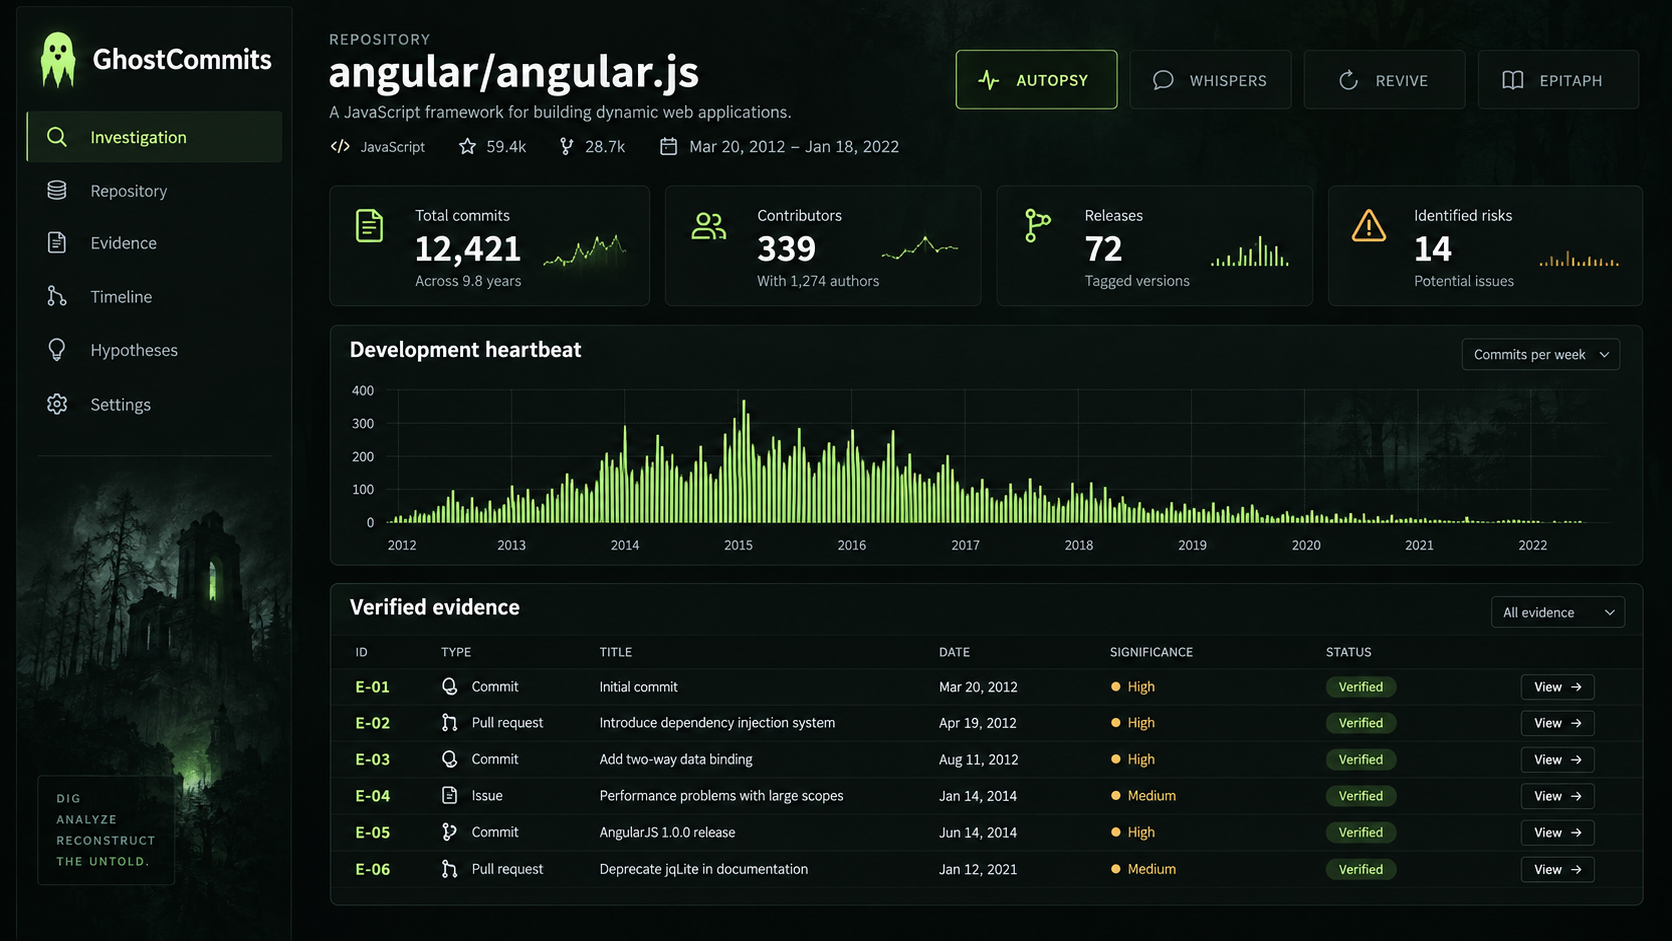
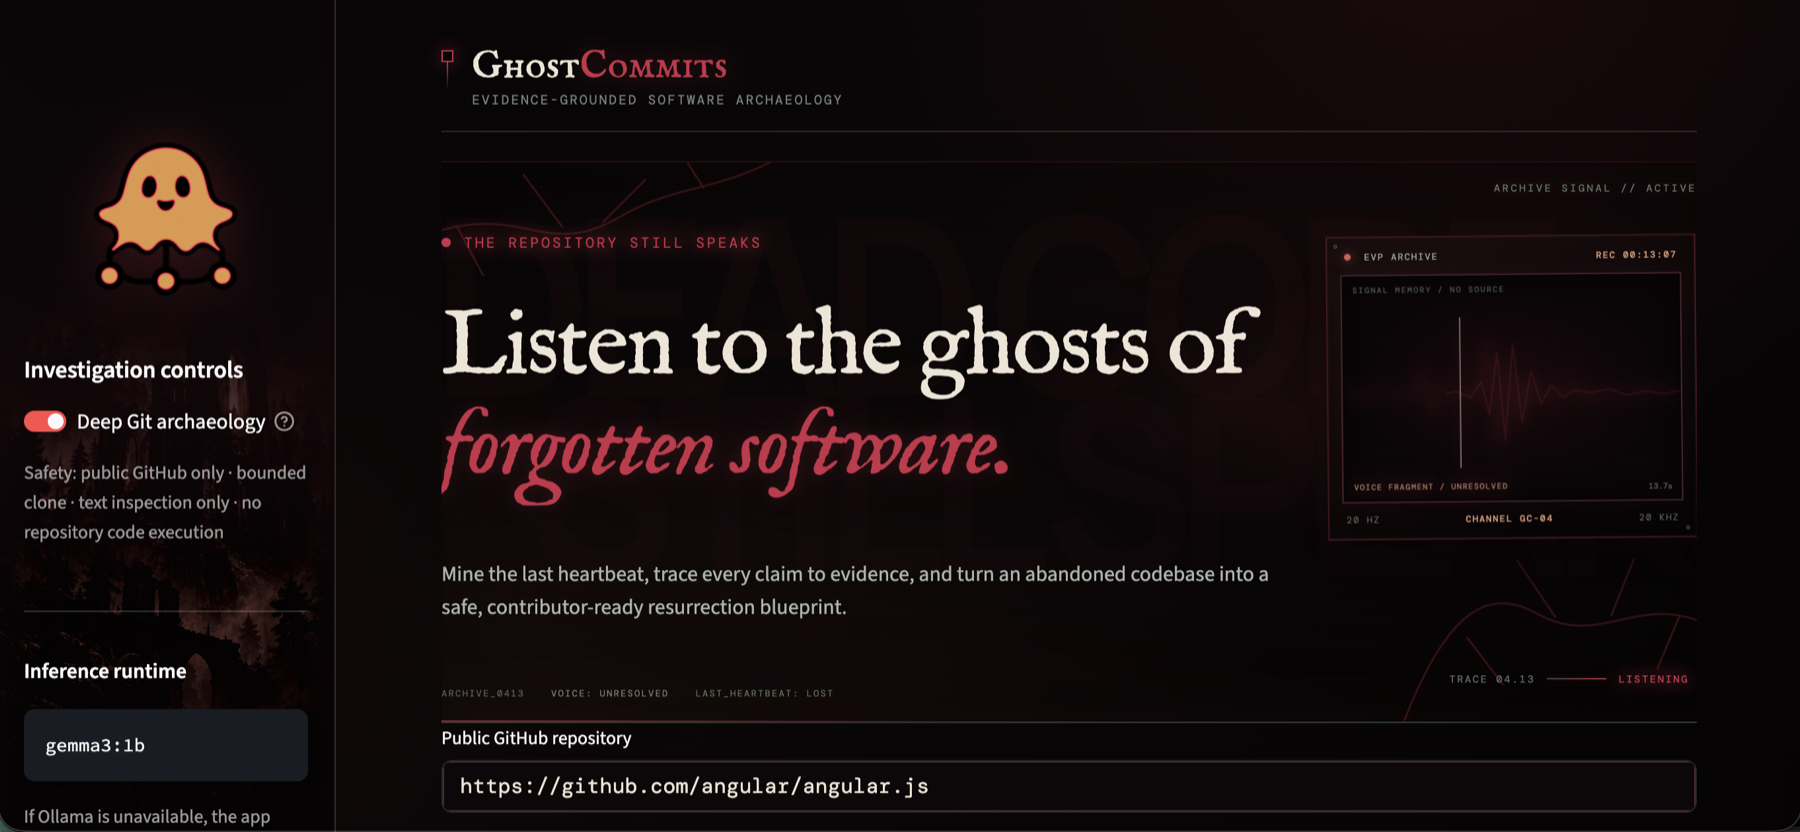
Replace demo images with real product screenshots

diff --git a/README.md b/README.md
@@ -15,6 +15,32 @@ GhostCommits is a competition-ready, open-source AI software archaeologist. It c
 - **Digital Epitaph** — a shareable PNG memorial generated from verified facts.
 - **Adversarial safety** — public GitHub only, bounded clone, no code execution.
 
+## Product tour
+
+### 01 · Autopsy
+
+The activity heartbeat and signal profile expose the repository's observable development history, while every displayed conclusion remains connected to verified evidence.
+
+![GhostCommits autopsy dashboard with development heartbeat and signal profile](assets/screenshots/autopsy.png)
+
+### 02 · Whispers
+
+Gemma interpretations pass through the claim firewall before rendering, with evidence IDs, uncertainty, and confidence shown directly in each finding.
+
+![GhostCommits evidence-grounded AI interpretation](assets/screenshots/whispers.png)
+
+### 03 · Revive
+
+The resurrection blueprint converts surviving repository evidence into a sequenced, contributor-ready recovery plan—without executing repository code.
+
+![GhostCommits resurrection blueprint](assets/screenshots/revive.png)
+
+### 04 · Epitaph
+
+Each investigation produces a shareable digital epitaph summarizing the repository's verified state and key measurements.
+
+![GhostCommits downloadable digital epitaph](assets/screenshots/epitaph.png)
+
 ## Quick start
 
 Requirements: Python 3.10+, Git, and optionally Ollama for Gemma inference.
@@ -114,6 +140,10 @@ ghostcommits/
 │   └── results.json
 ├── examples/sample_report.json
 └── assets/
+    ├── demo.png
+    ├── logo.png
+    ├── sidebar-haunt.png
+    └── screenshots/
 ```
 
 MIT licensed.
